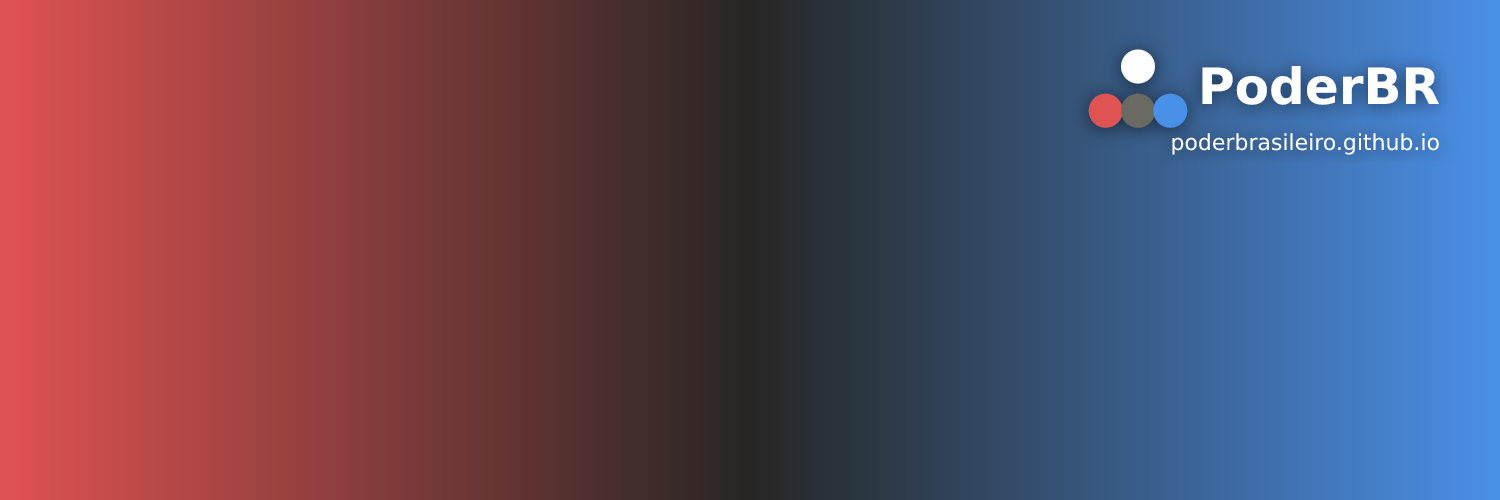
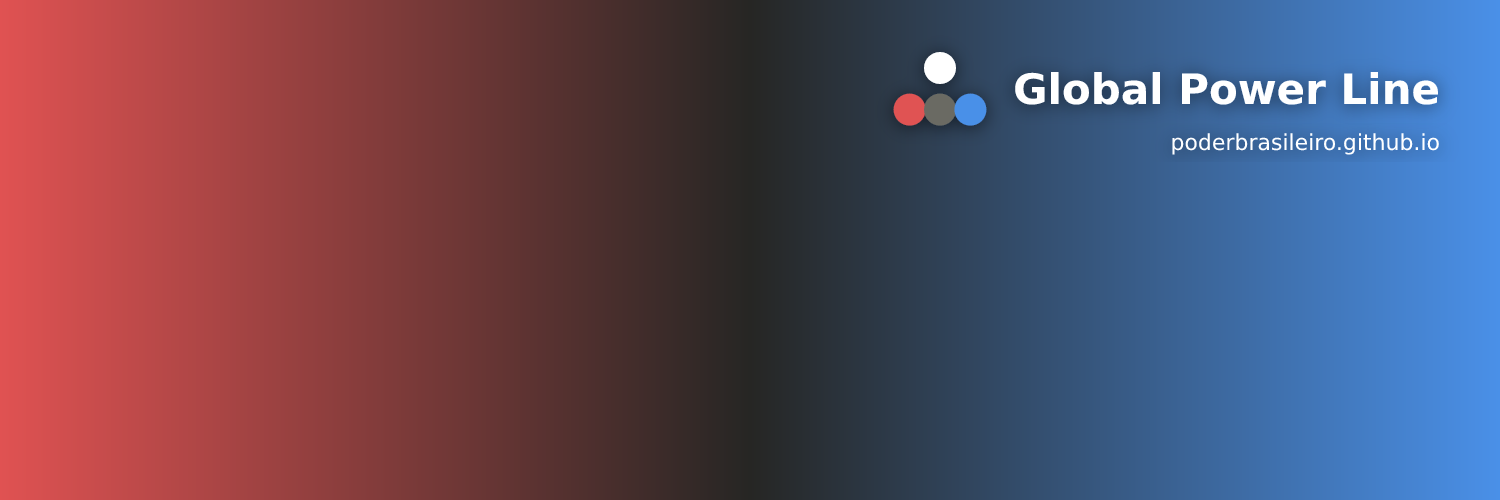
feat: o projeto passa a se chamar Global Power Line
O nome PoderBR descrevia um site que so existia no Brasil. Com a aba
Mundo no ar, ele passou a prometer menos do que o site faz.

Trocado em tudo que o publico ve: titulo, cabecalho, tags de
compartilhamento, cartoes, banner, paginas por pessoa, paginas de
cartao e a pauta. O identificador que os coletores mandam nas APIs
virou GPL/0.1.

O endereco continua poderbrasileiro.github.io: trocar agora perderia o
que o Google ja indexou das 909 paginas, e o dominio nao aparece no
titulo de nada.

Tambem: a legenda do mapa passou a dizer que a nota e de 2019 e que
partido criado depois nao tem nota -- ate agora isso so estava na ficha
de cada pais, e quem olhava so o mapa nao via. E a metodologia do
rodape ganhou a parte do mundo, com as duas ressalvas que mudam a
leitura: ninguem classifica pais, classifica partido; e o numero do
mundo e o do Brasil vem de estudos diferentes, na mesma regua mas sem
comparacao numero a numero.

Changed region(s): [[0.5827, 0.09, 0.9813, 0.27]]

diff --git a/public/pauta/index.html b/public/pauta/index.html
@@ -3,7 +3,7 @@
 <head>
 <meta charset="utf-8">
 <meta name="viewport" content="width=device-width, initial-scale=1">
-<title>Pauta de 26/10/2026 | PoderBR</title>
+<title>Pauta de 26/10/2026 | Global Power Line</title>
 <meta name="description" content="Posts do dia, prontos para copiar.">
 <meta name="robots" content="noindex">
 <style>pre{white-space:pre-wrap;word-break:break-word;background:#262624;border:1px solid #3a3a37;border-radius:10px;padding:14px;font:15px/1.5 inherit}section{border-top:1px solid #3a3a37;padding-top:20px;margin-top:24px}hr{border:0;border-top:1px solid #3a3a37;margin:32px 0 16px}</style>
@@ -23,7 +23,7 @@ img{display:block;width:100%;height:auto;border-radius:10px;border:1px solid #3a
 </style>
 </head>
 <body><main>
-<p><a href="../">PoderBR</a></p>
+<p><a href="../">Global Power Line</a></p>
 <h1>Pauta de 26/10/2026</h1>
 <p class="fraco">Clique em <b>Copiar texto</b> e cole no X, ou use <b>Abrir no X</b> que já vai preenchido. A imagem aparece sozinha na prévia do link — não precisa baixar nem anexar.</p>
 
@@ -85,6 +85,54 @@ Quem fica e quem sai em 2027: https://poderbrasileiro.github.io/#rede
     <a class="botao vazio" href="https://x.com/intent/post?text=2%C2%BA%20turno%20%E2%80%94%20Governo%20de%20DF%3A%20eleito(a)%20Celina%20Le%C3%A3o%20(PP)%2C%20com%2057%2C18%25%20dos%20votos%20v%C3%A1lidos.%0A%0AVice%3A%20Gustavo%20Rocha.%0A%0AQuem%20fica%20e%20quem%20sai%20em%202027%3A%20https%3A%2F%2Fpoderbrasileiro.github.io%2F%23rede%0A%23Elei%C3%A7%C3%B5es2026%20%23SegundoTurno%20%23DistritoFederal" target="_blank" rel="noopener">Abrir no X</a>
   </p>
   
+</section>
+
+<section>
+  <h2>5. Estreia <span class="fraco">— fixe este no perfil</span></h2>
+  <pre id="t4">Quem governa cada um dos 195 países do mundo, e há quanto tempo. E o Brasil por dentro: Congresso, STF, governos estaduais e as 5.569 prefeituras.
+
+Dados públicos, atualizados todo dia. Sem vínculo com governo ou partido.
+
+https://poderbrasileiro.github.io/c/poderbr.html
+#Brasil #Congresso</pre>
+  <p>
+    <button class="botao" data-copiar="t4">Copiar texto</button>
+    <a class="botao vazio" href="https://x.com/intent/post?text=Quem%20governa%20cada%20um%20dos%20195%20pa%C3%ADses%20do%20mundo%2C%20e%20h%C3%A1%20quanto%20tempo.%20E%20o%20Brasil%20por%20dentro%3A%20Congresso%2C%20STF%2C%20governos%20estaduais%20e%20as%205.569%20prefeituras.%0A%0ADados%20p%C3%BAblicos%2C%20atualizados%20todo%20dia.%20Sem%20v%C3%ADnculo%20com%20governo%20ou%20partido.%0A%0Ahttps%3A%2F%2Fpoderbrasileiro.github.io%2Fc%2Fpoderbr.html%0A%23Brasil%20%23Congresso" target="_blank" rel="noopener">Abrir no X</a>
+  </p>
+  <p class="fraco">A imagem entra sozinha pela prévia do link. Não precisa anexar nada.</p>
+  <p><img src="../cartoes/poderbr.png" alt="Cartão do Global Power Line: o título “Quem ocupa o poder” sobre o semicírculo do Senado, com 81 cadeiras da esquerda (vermelho) para a direita (azul)."></p>
+</section>
+
+<section>
+  <h2>6. Estreia</h2>
+  <pre id="t5">Senado Federal em 2027: 81% de direita e 19% de esquerda a partir de fevereiro de 2027.
+
+Mais à direita que hoje, que está em 79%. São 54 eleitos em 2026 mais 27 com mandato até 2031. Cadeira por cadeira:
+
+https://poderbrasileiro.github.io/c/2027-senador.html
+#Senado #Eleições2026</pre>
+  <p>
+    <button class="botao" data-copiar="t5">Copiar texto</button>
+    <a class="botao vazio" href="https://x.com/intent/post?text=Senado%20Federal%20em%202027%3A%2081%25%20de%20direita%20e%2019%25%20de%20esquerda%20a%20partir%20de%20fevereiro%20de%202027.%0A%0AMais%20%C3%A0%20direita%20que%20hoje%2C%20que%20est%C3%A1%20em%2079%25.%20S%C3%A3o%2054%20eleitos%20em%202026%20mais%2027%20com%20mandato%20at%C3%A9%202031.%20Cadeira%20por%20cadeira%3A%0A%0Ahttps%3A%2F%2Fpoderbrasileiro.github.io%2Fc%2F2027-senador.html%0A%23Senado%20%23Elei%C3%A7%C3%B5es2026" target="_blank" rel="noopener">Abrir no X</a>
+  </p>
+  <p class="fraco">A imagem entra sozinha pela prévia do link. Não precisa anexar nada.</p>
+  <p><img src="../cartoes/2027-senador.png" alt="Gráfico — Senado Federal em 2027: 81 cadeiras em semicírculo, da esquerda (vermelho) para a direita (azul) pela posição do partido. 19% de esquerda e 81% de direita."></p>
+</section>
+
+<section>
+  <h2>7. Estreia</h2>
+  <pre id="t6">Câmara dos Deputados em 2027: 77% de direita e 23% de esquerda a partir de fevereiro de 2027.
+
+Mais à direita que hoje, que está em 76%. Os 513 trocam de uma vez. Cadeira por cadeira:
+
+https://poderbrasileiro.github.io/c/2027-deputado.html
+#Câmara #Eleições2026</pre>
+  <p>
+    <button class="botao" data-copiar="t6">Copiar texto</button>
+    <a class="botao vazio" href="https://x.com/intent/post?text=C%C3%A2mara%20dos%20Deputados%20em%202027%3A%2077%25%20de%20direita%20e%2023%25%20de%20esquerda%20a%20partir%20de%20fevereiro%20de%202027.%0A%0AMais%20%C3%A0%20direita%20que%20hoje%2C%20que%20est%C3%A1%20em%2076%25.%20Os%20513%20trocam%20de%20uma%20vez.%20Cadeira%20por%20cadeira%3A%0A%0Ahttps%3A%2F%2Fpoderbrasileiro.github.io%2Fc%2F2027-deputado.html%0A%23C%C3%A2mara%20%23Elei%C3%A7%C3%B5es2026" target="_blank" rel="noopener">Abrir no X</a>
+  </p>
+  <p class="fraco">A imagem entra sozinha pela prévia do link. Não precisa anexar nada.</p>
+  <p><img src="../cartoes/2027-deputado.png" alt="Gráfico — Câmara dos Deputados em 2027: 513 cadeiras em semicírculo, da esquerda (vermelho) para a direita (azul) pela posição do partido. 23% de esquerda e 77% de direita."></p>
 </section>
 <hr>
 <p class="fraco">Refeita sozinha todo dia. O que já apareceu aqui não volta em pautas futuras.</p>

diff --git a/public/c/poderbr.html b/public/c/poderbr.html
@@ -3,16 +3,16 @@
 <head>
 <meta charset="utf-8">
 <meta name="viewport" content="width=device-width, initial-scale=1">
-<title>Quem ocupa o poder no Brasil | PoderBR</title>
-<meta name="description" content="Presidente, ministros, STF, governadores, senadores, deputados e os prefeitos das 5.569 cidades, num quadro só.">
+<title>Quem ocupa o poder | Global Power Line</title>
+<meta name="description" content="195 países e há quanto tempo cada um está no mesmo governo. E o Brasil por dentro, cargo por cargo.">
 <link rel="canonical" href="https://poderbrasileiro.github.io/c/poderbr.html">
 <meta property="og:type" content="article">
-<meta property="og:site_name" content="PoderBR">
-<meta property="og:title" content="Quem ocupa o poder no Brasil">
-<meta property="og:description" content="Presidente, ministros, STF, governadores, senadores, deputados e os prefeitos das 5.569 cidades, num quadro só.">
+<meta property="og:site_name" content="Global Power Line">
+<meta property="og:title" content="Quem ocupa o poder">
+<meta property="og:description" content="195 países e há quanto tempo cada um está no mesmo governo. E o Brasil por dentro, cargo por cargo.">
 <meta property="og:url" content="https://poderbrasileiro.github.io/c/poderbr.html">
 <meta property="og:image" content="https://poderbrasileiro.github.io/cartoes/poderbr.png">
-<meta property="og:image:alt" content="Cartão do PoderBR: o título “Quem ocupa o poder no Brasil” sobre o semicírculo do Senado, com 81 cadeiras da esquerda (vermelho) para a direita (azul).">
+<meta property="og:image:alt" content="Cartão do Global Power Line: o título “Quem ocupa o poder” sobre o semicírculo do Senado, com 81 cadeiras da esquerda (vermelho) para a direita (azul).">
 <meta name="twitter:card" content="summary_large_image">
 <link rel="icon" href="../favicon.svg" type="image/svg+xml">
 <style>
@@ -30,10 +30,10 @@ img{display:block;width:100%;height:auto;border-radius:10px;border:1px solid #3a
 </style>
 </head>
 <body><main>
-<p><a href="../">PoderBR</a></p>
-<h1>Quem ocupa o poder no Brasil</h1>
-<p class="fraco">Presidente, ministros, STF, governadores, senadores, deputados e os prefeitos das 5.569 cidades, num quadro só.</p>
-<p><img src="../cartoes/poderbr.png" alt="Cartão do PoderBR: o título “Quem ocupa o poder no Brasil” sobre o semicírculo do Senado, com 81 cadeiras da esquerda (vermelho) para a direita (azul)."></p>
+<p><a href="../">Global Power Line</a></p>
+<h1>Quem ocupa o poder</h1>
+<p class="fraco">195 países e há quanto tempo cada um está no mesmo governo. E o Brasil por dentro, cargo por cargo.</p>
+<p><img src="../cartoes/poderbr.png" alt="Cartão do Global Power Line: o título “Quem ocupa o poder” sobre o semicírculo do Senado, com 81 cadeiras da esquerda (vermelho) para a direita (azul)."></p>
 <p><a class="botao" href="../">Ver no quadro interativo</a></p>
 <p class="fraco">Dados públicos da Câmara, do Senado, do TSE e do IBGE. A posição de esquerda e direita é a do partido de cada pessoa, segundo classificação de cientistas políticos — não é uma medida individual.</p></main></body>
 </html>

diff --git a/src/main.js b/src/main.js
@@ -145,7 +145,7 @@ function desenharLegenda() {
       el.replaceChildren(
         h('div', { class: 'legenda-item' }, h('span', {}, 'esquerda'), h('span', { class: 'legenda-rampa' }), h('span', {}, 'direita')),
         h('div', { class: 'legenda-item' }, h('span', { class: 'legenda-hachura' }), h('span', {}, 'Sem posição conhecida')),
-        h('div', { class: 'legenda-item fraco' }, 'Posição do partido que governa, pelo Global Party Survey de 2019'));
+        h('div', { class: 'legenda-item fraco' }, 'Posição do partido que governa, por survey com especialistas de 2019 — partido criado depois não tem nota'));
     }
     return;
   }
@@ -245,6 +245,10 @@ document.getElementById('metodologia').append(
   h('ul', {},
     h('li', {}, h('b', {}, 'Posição do partido: '), dados.fontePartidos, ' A porcentagem é só essa nota convertida (nota 7 = 70% direita). Vale para o partido inteiro, não para a pessoa. Nas cores, o vermelho e o azul cheios aparecem a partir de 2 e de 8: no intervalo todo, como nenhum partido com gente em cargo chega perto das pontas, tudo sairia cinzento.'),
     h('li', {}, h('b', {}, 'Voto no plenário (só senadores): '), `nas votações nominais em que a maioria do ${dados.votos.poloEsquerda} e a maioria do ${dados.votos.poloDireita} ficaram em lados opostos, de que lado o senador votou. Mede alinhamento de voto, não ideologia.`)),
+  h('h4', {}, 'O mundo'),
+  h('p', {}, 'Quem governa cada país e desde quando vêm da ', link('Wikidata', 'https://www.wikidata.org/'), ', editada por voluntários: em país com troca rápida de governo ela pode estar atrasada, e cada ficha leva ao item de lá para conferir e corrigir. A posição de esquerda e direita vem do ', link('Global Party Survey 2019', 'https://doi.org/10.7910/DVN/WMGTNS'), ', survey com cientistas políticos de cada país, em domínio público — cobre 92 dos 195 e não inclui partido criado depois de 2019.'),
+  h('p', {}, 'Duas ressalvas que mudam a leitura do mapa. A primeira: ninguém classifica país, classifica partido — a cor mostra a posição de quem governa hoje, não uma medida do país. A segunda: o número do mundo e o do Brasil vêm de estudos diferentes, na mesma régua de 0 a 10 e na mesma direção, mas não devem ser comparados número a número.'),
+  h('p', {}, 'No modo “tempo no poder”, monarca hereditário fica fora do ranking: herdar o trono não é a mesma coisa que não sair do poder.'),
   h('h4', {}, 'As cinco faixas'),
   h('p', {}, 'Esquerda até 3, centro-esquerda até 4,5, centro até 5,5, centro-direita até 7, direita acima disso. Os cortes são escolha deste site: o artigo dá uma nota por partido e não divide em faixas. Foram postos onde a distribuição real tem folga — não existe partido com gente em cargo entre 5,3 e 6,3 —, e não em quintos iguais da régua. Nos posts a conta é só de dois lados, abaixo ou acima de 5.'),
   h('h4', {}, 'Porcentagem de esquerda e direita'),

diff --git a/public/c/2027-deputado.html b/public/c/2027-deputado.html
@@ -3,13 +3,13 @@
 <head>
 <meta charset="utf-8">
 <meta name="viewport" content="width=device-width, initial-scale=1">
-<title>Câmara dos Deputados em 2027 | PoderBR</title>
-<meta name="description" content="77% de direita e 23% de esquerda a partir de fevereiro de 2027. Hoje: 77% e 23%.">
+<title>Câmara dos Deputados em 2027 | Global Power Line</title>
+<meta name="description" content="77% de direita e 23% de esquerda a partir de fevereiro de 2027. Hoje: 76% e 24%.">
 <link rel="canonical" href="https://poderbrasileiro.github.io/c/2027-deputado.html">
 <meta property="og:type" content="article">
-<meta property="og:site_name" content="PoderBR">
+<meta property="og:site_name" content="Global Power Line">
 <meta property="og:title" content="Câmara dos Deputados em 2027">
-<meta property="og:description" content="77% de direita e 23% de esquerda a partir de fevereiro de 2027. Hoje: 77% e 23%.">
+<meta property="og:description" content="77% de direita e 23% de esquerda a partir de fevereiro de 2027. Hoje: 76% e 24%.">
 <meta property="og:url" content="https://poderbrasileiro.github.io/c/2027-deputado.html">
 <meta property="og:image" content="https://poderbrasileiro.github.io/cartoes/2027-deputado.png">
 <meta property="og:image:alt" content="Gráfico — Câmara dos Deputados em 2027: 513 cadeiras em semicírculo, da esquerda (vermelho) para a direita (azul) pela posição do partido. 23% de esquerda e 77% de direita.">
@@ -30,9 +30,9 @@ img{display:block;width:100%;height:auto;border-radius:10px;border:1px solid #3a
 </style>
 </head>
 <body><main>
-<p><a href="../">PoderBR</a></p>
+<p><a href="../">Global Power Line</a></p>
 <h1>Câmara dos Deputados em 2027</h1>
-<p class="fraco">77% de direita e 23% de esquerda a partir de fevereiro de 2027. Hoje: 77% e 23%.</p>
+<p class="fraco">77% de direita e 23% de esquerda a partir de fevereiro de 2027. Hoje: 76% e 24%.</p>
 <p><img src="../cartoes/2027-deputado.png" alt="Gráfico — Câmara dos Deputados em 2027: 513 cadeiras em semicírculo, da esquerda (vermelho) para a direita (azul) pela posição do partido. 23% de esquerda e 77% de direita."></p>
 <p><a class="botao" href="../#rede">Ver no quadro interativo</a></p>
 <p class="fraco">Dados públicos da Câmara, do Senado, do TSE e do IBGE. A posição de esquerda e direita é a do partido de cada pessoa, segundo classificação de cientistas políticos — não é uma medida individual.</p></main></body>

diff --git a/index.html b/index.html
@@ -3,12 +3,12 @@
 <head>
   <meta charset="utf-8">
   <meta name="viewport" content="width=device-width, initial-scale=1">
-  <title>PoderBR — quem ocupa o poder no Brasil</title>
-  <meta name="description" content="Quadro interativo do poder no Brasil: presidente, ministros, STF, governadores, senadores, deputados e prefeitos. Mapa, três poderes, votos em PECs e a transição para 2027, com dados públicos.">
+  <title>Global Power Line — quem ocupa o poder, país por país</title>
+  <meta name="description" content="Quem governa cada um dos 195 países e há quanto tempo, com a esquerda e a direita onde há dado. E o Brasil por dentro: presidente, ministros, STF, governadores, senadores, deputados e os prefeitos das 5.569 cidades.">
   <meta property="og:type" content="website">
-  <meta property="og:site_name" content="PoderBR">
-  <meta property="og:title" content="PoderBR — quem ocupa o poder no Brasil">
-  <meta property="og:description" content="Mapa, três poderes, votos em PECs e a transição para 2027, com dados públicos.">
+  <meta property="og:site_name" content="Global Power Line">
+  <meta property="og:title" content="Global Power Line — quem ocupa o poder, país por país">
+  <meta property="og:description" content="195 países, quem governa e há quanto tempo. E o Brasil em profundidade, com dados públicos.">
   <meta name="twitter:card" content="summary">
   <link rel="icon" href="favicon.svg" type="image/svg+xml">
   <script>try{var t=localStorage.getItem("tema");if(t==="claro"||t==="escuro")document.documentElement.setAttribute("data-theme",t)}catch(e){}</script>
@@ -17,8 +17,8 @@
 <body>
   <header class="topo">
     <div class="marca">
-      <h1>PoderBR</h1>
-      <p>Quem ocupa o poder no Brasil, com dados públicos.</p>
+      <h1>Global Power Line</h1>
+      <p>Quem ocupa o poder: 195 países, e o Brasil por dentro.</p>
     </div>
     <div class="busca">
       <label class="so-leitor" for="busca">Buscar político</label>

diff --git a/public/c/2027-senador.html b/public/c/2027-senador.html
@@ -3,11 +3,11 @@
 <head>
 <meta charset="utf-8">
 <meta name="viewport" content="width=device-width, initial-scale=1">
-<title>Senado Federal em 2027 | PoderBR</title>
+<title>Senado Federal em 2027 | Global Power Line</title>
 <meta name="description" content="81% de direita e 19% de esquerda a partir de fevereiro de 2027. Hoje: 79% e 21%.">
 <link rel="canonical" href="https://poderbrasileiro.github.io/c/2027-senador.html">
 <meta property="og:type" content="article">
-<meta property="og:site_name" content="PoderBR">
+<meta property="og:site_name" content="Global Power Line">
 <meta property="og:title" content="Senado Federal em 2027">
 <meta property="og:description" content="81% de direita e 19% de esquerda a partir de fevereiro de 2027. Hoje: 79% e 21%.">
 <meta property="og:url" content="https://poderbrasileiro.github.io/c/2027-senador.html">
@@ -30,7 +30,7 @@ img{display:block;width:100%;height:auto;border-radius:10px;border:1px solid #3a
 </style>
 </head>
 <body><main>
-<p><a href="../">PoderBR</a></p>
+<p><a href="../">Global Power Line</a></p>
 <h1>Senado Federal em 2027</h1>
 <p class="fraco">81% de direita e 19% de esquerda a partir de fevereiro de 2027. Hoje: 79% e 21%.</p>
 <p><img src="../cartoes/2027-senador.png" alt="Gráfico — Senado Federal em 2027: 81 cadeiras em semicírculo, da esquerda (vermelho) para a direita (azul) pela posição do partido. 19% de esquerda e 81% de direita."></p>

diff --git a/worker/src/index.js b/worker/src/index.js
@@ -56,7 +56,7 @@ export default {
     const liberada = permitidas.includes(origem) ? origem : permitidas[0] ?? '';
 
     if (requisicao.method === 'OPTIONS') return new Response(null, { headers: cabecalhos(liberada) });
-    if (url.pathname !== '/ping') return new Response('PoderBR — contador de presença. Use /ping.', { status: 404 });
+    if (url.pathname !== '/ping') return new Response('GPL — contador de presença. Use /ping.', { status: 404 });
     if (origem && !permitidas.includes(origem)) return new Response('{"erro":"origem não permitida"}', { status: 403, headers: cabecalhos(liberada) });
 
     const obj = ambiente.PRESENCA.get(ambiente.PRESENCA.idFromName('global'));

diff --git a/README.md b/README.md
@@ -1,7 +1,12 @@
-# PoderBR
+# Global Power Line
 
-Quadro interativo de quem ocupa o poder no Brasil: presidente, vice, ministros,
-ministros do STF, governadores, senadores, deputados federais e prefeitos. Três visões dos mesmos dados — **mapa**, **rede de
+Quem ocupa o poder, em duas escalas.
+
+**O mundo:** quem governa cada um dos 195 países, há quanto tempo está no cargo
+e onde o partido fica entre esquerda e direita.
+
+**O Brasil por dentro:** presidente, vice, ministros, ministros do STF,
+governadores, senadores, deputados federais, estaduais e prefeitos. Três visões dos mesmos dados — **mapa**, **rede de
 poder** (quadro dos três poderes × União, estados e municípios) e **lista** — e uma ficha por pessoa com
 posição esquerda × direita e links de investigações e notícias.
 
@@ -17,6 +22,7 @@ npm run dev        # abre em http://localhost:5173
 ## Atualizando os dados
 
 ```bash
+npm run mundo      # quem governa os 195 países -> mundo.json e mundo-malha.json
 npm run coletar    # cargos, mapa e votações  -> public/data/brasil.json, malha.json
 npm run eleicao    # transição 2027: resultado de 2026 x quem está no cargo -> eleicao2026.json
 npm run pecs       # PECs: estágio e voto nominal de cada parlamentar -> pecs.json
@@ -39,6 +45,9 @@ de uma tabela da Wikipédia, e se o formato dela mudar o parser quebra.
 | Transição 2027 (⇄) | resultado oficial do TSE da eleição de 2026, casado por nome com os ocupantes atuais |
 | PECs (estágio e votos) | Dados Abertos da Câmara e do Senado |
 | Eleitos de 2026 que ainda não assumiram | resultado oficial do TSE (os que não ocupam cargo hoje) |
+| Quem governa cada país | Wikidata |
+| Posição dos partidos no mundo | Global Party Survey 2019 (domínio público) |
+| Mapa-múndi | Natural Earth, via world-atlas |
 | Mapa e UFs | IBGE |
 | Presidente e vice | `data/manual.json` |
 | Posição dos partidos | `data/partidos.json` |

diff --git a/PAUTA.md b/PAUTA.md
@@ -54,6 +54,51 @@ Quem fica e quem sai em 2027: https://poderbrasileiro.github.io/#rede
 #Eleições2026 #SegundoTurno #DistritoFederal
 ```
 
+## 5. Estreia — fixe este no perfil
+
+265 de 280 caracteres (o X conta todo link como 23)
+
+```
+Quem governa cada um dos 195 países do mundo, e há quanto tempo. E o Brasil por dentro: Congresso, STF, governos estaduais e as 5.569 prefeituras.
+
+Dados públicos, atualizados todo dia. Sem vínculo com governo ou partido.
+
+https://poderbrasileiro.github.io/c/poderbr.html
+#Brasil #Congresso
+```
+
+A imagem entra sozinha pela prévia do link; não precisa anexar.
+
+## 6. Estreia
+
+251 de 280 caracteres (o X conta todo link como 23)
+
+```
+Senado Federal em 2027: 81% de direita e 19% de esquerda a partir de fevereiro de 2027.
+
+Mais à direita que hoje, que está em 79%. São 54 eleitos em 2026 mais 27 com mandato até 2031. Cadeira por cadeira:
+
+https://poderbrasileiro.github.io/c/2027-senador.html
+#Senado #Eleições2026
+```
+
+A imagem entra sozinha pela prévia do link; não precisa anexar.
+
+## 7. Estreia
+
+230 de 280 caracteres (o X conta todo link como 23)
+
+```
+Câmara dos Deputados em 2027: 77% de direita e 23% de esquerda a partir de fevereiro de 2027.
+
+Mais à direita que hoje, que está em 76%. Os 513 trocam de uma vez. Cadeira por cadeira:
+
+https://poderbrasileiro.github.io/c/2027-deputado.html
+#Câmara #Eleições2026
+```
+
+A imagem entra sozinha pela prévia do link; não precisa anexar.
+
 ---
 
 Refeita sozinha todo dia. O que já apareceu aqui não volta em pautas futuras.

diff --git a/relatorios/2026-10-26.md b/relatorios/2026-10-26.md
@@ -54,6 +54,51 @@ Quem fica e quem sai em 2027: https://poderbrasileiro.github.io/#rede
 #Eleições2026 #SegundoTurno #DistritoFederal
 ```
 
+## 5. Estreia — fixe este no perfil
+
+265 de 280 caracteres (o X conta todo link como 23)
+
+```
+Quem governa cada um dos 195 países do mundo, e há quanto tempo. E o Brasil por dentro: Congresso, STF, governos estaduais e as 5.569 prefeituras.
+
+Dados públicos, atualizados todo dia. Sem vínculo com governo ou partido.
+
+https://poderbrasileiro.github.io/c/poderbr.html
+#Brasil #Congresso
+```
+
+A imagem entra sozinha pela prévia do link; não precisa anexar.
+
+## 6. Estreia
+
+251 de 280 caracteres (o X conta todo link como 23)
+
+```
+Senado Federal em 2027: 81% de direita e 19% de esquerda a partir de fevereiro de 2027.
+
+Mais à direita que hoje, que está em 79%. São 54 eleitos em 2026 mais 27 com mandato até 2031. Cadeira por cadeira:
+
+https://poderbrasileiro.github.io/c/2027-senador.html
+#Senado #Eleições2026
+```
+
+A imagem entra sozinha pela prévia do link; não precisa anexar.
+
+## 7. Estreia
+
+230 de 280 caracteres (o X conta todo link como 23)
+
+```
+Câmara dos Deputados em 2027: 77% de direita e 23% de esquerda a partir de fevereiro de 2027.
+
+Mais à direita que hoje, que está em 76%. Os 513 trocam de uma vez. Cadeira por cadeira:
+
+https://poderbrasileiro.github.io/c/2027-deputado.html
+#Câmara #Eleições2026
+```
+
+A imagem entra sozinha pela prévia do link; não precisa anexar.
+
 ---
 
 Refeita sozinha todo dia. O que já apareceu aqui não volta em pautas futuras.
